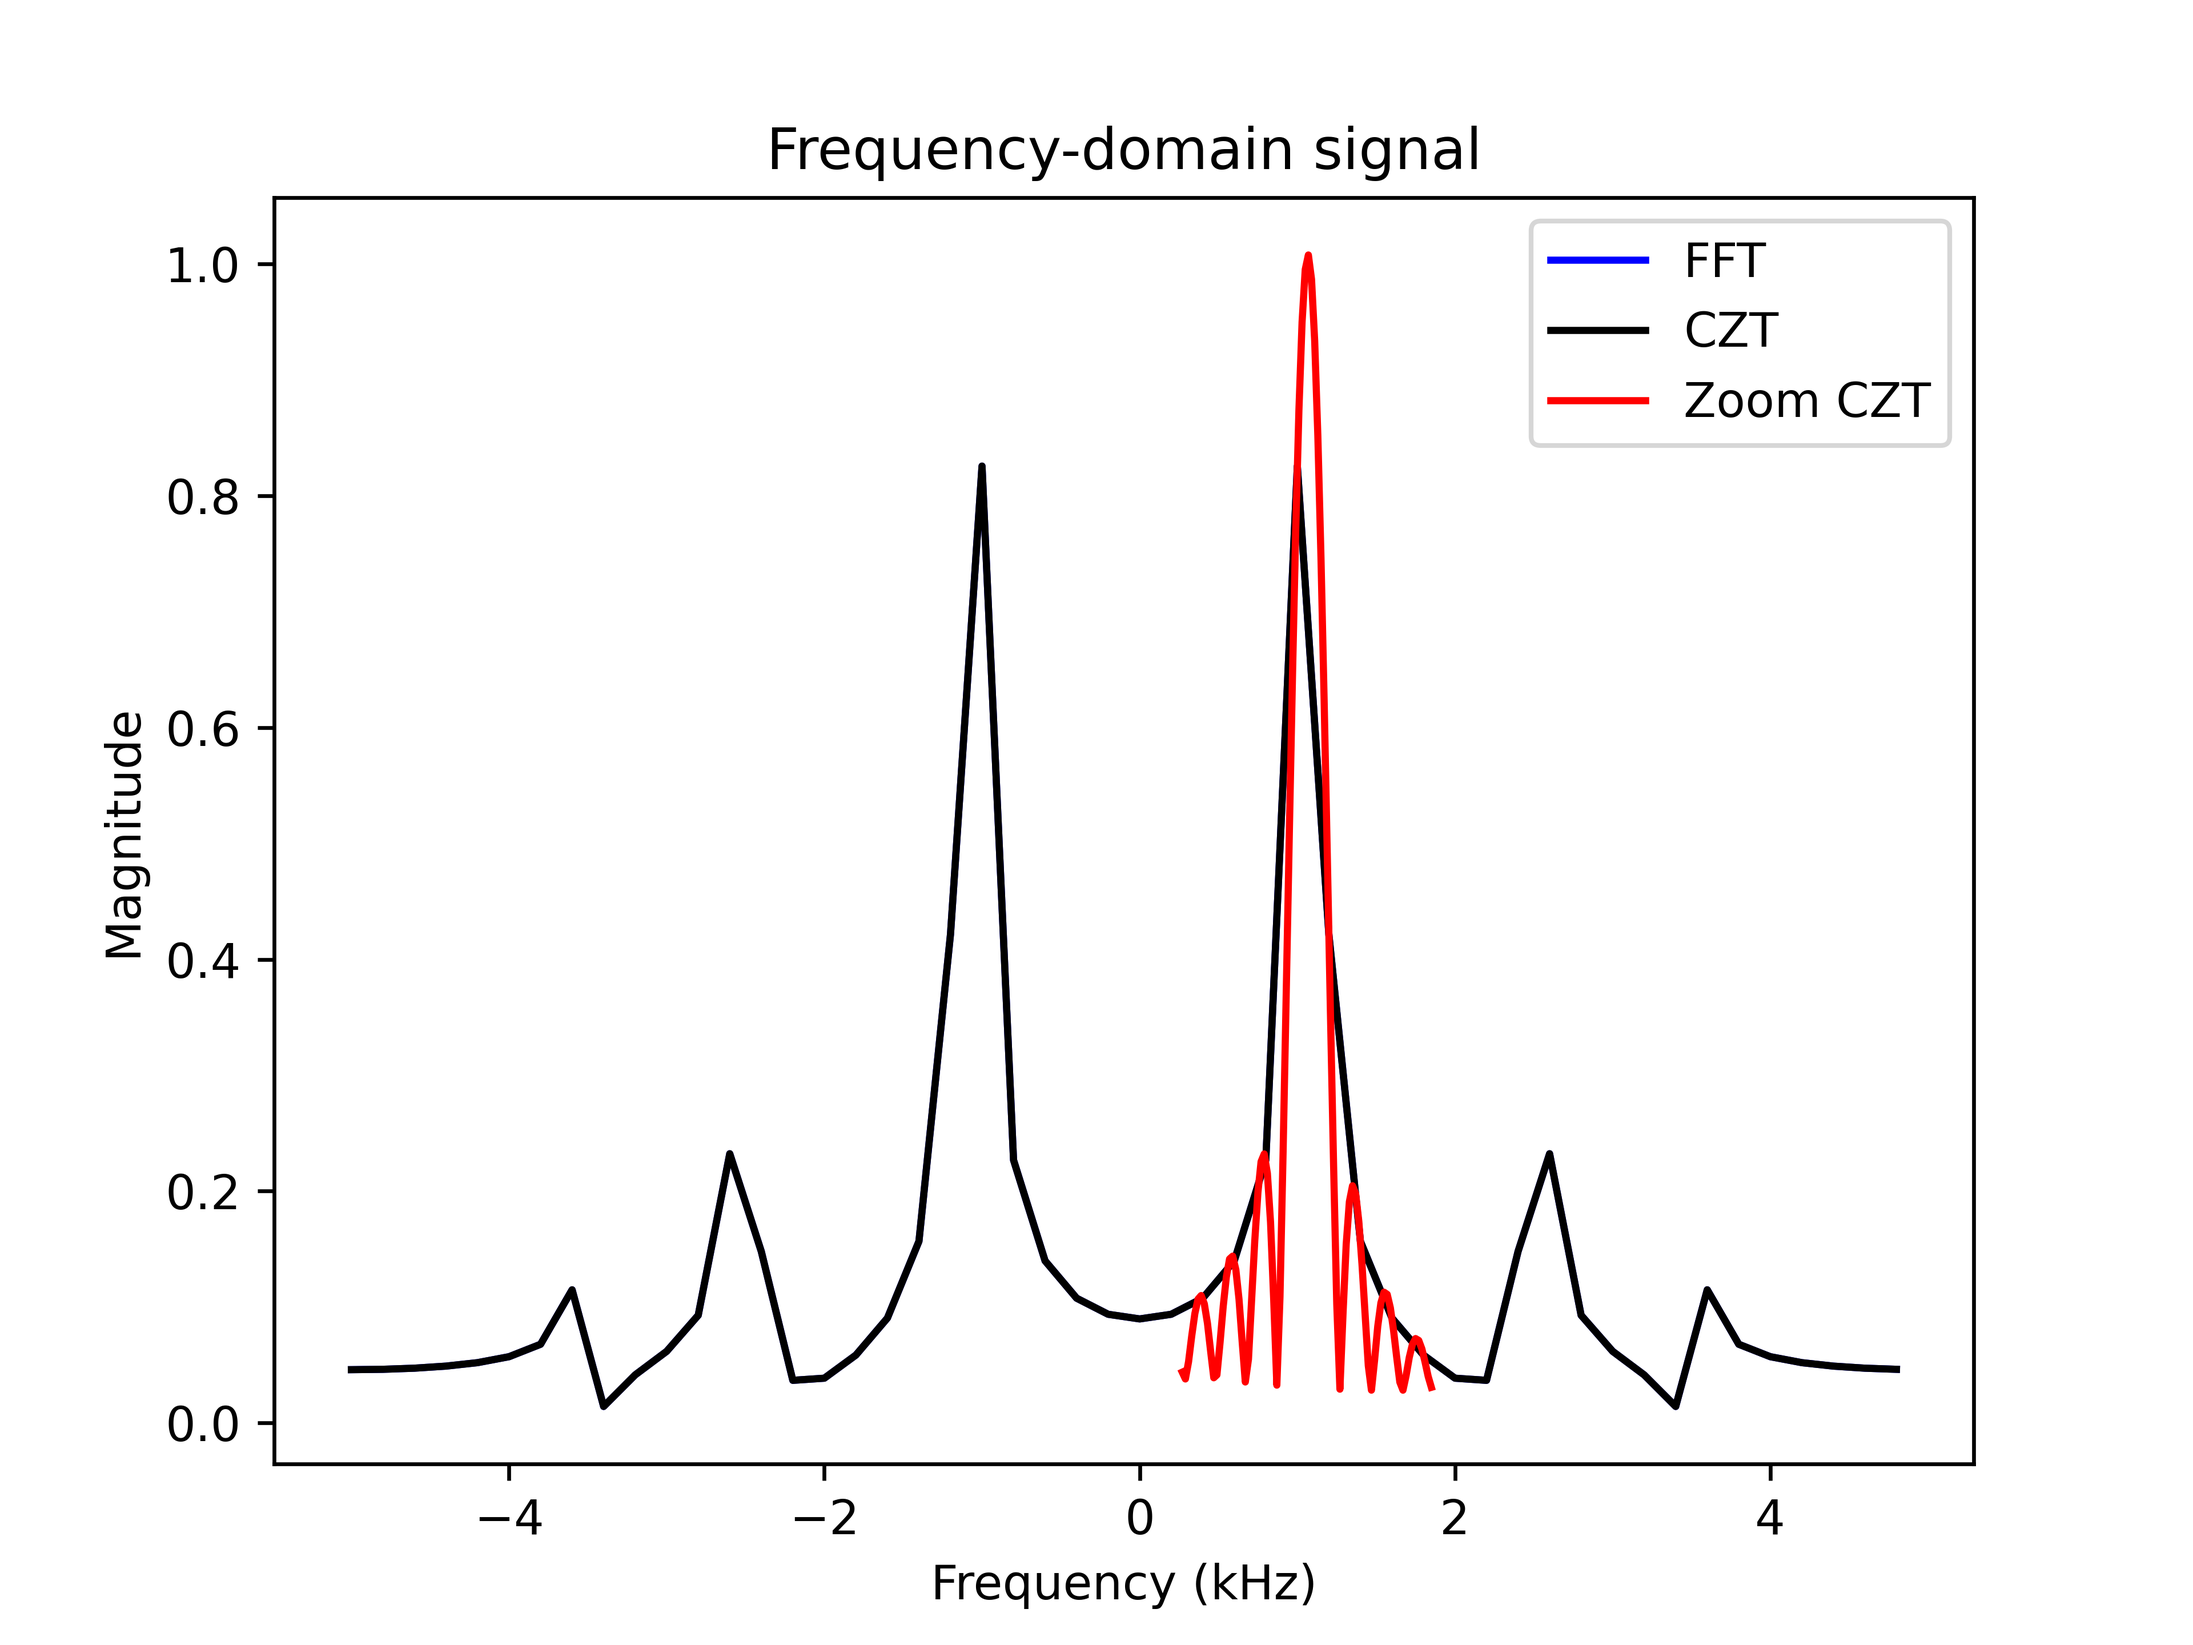
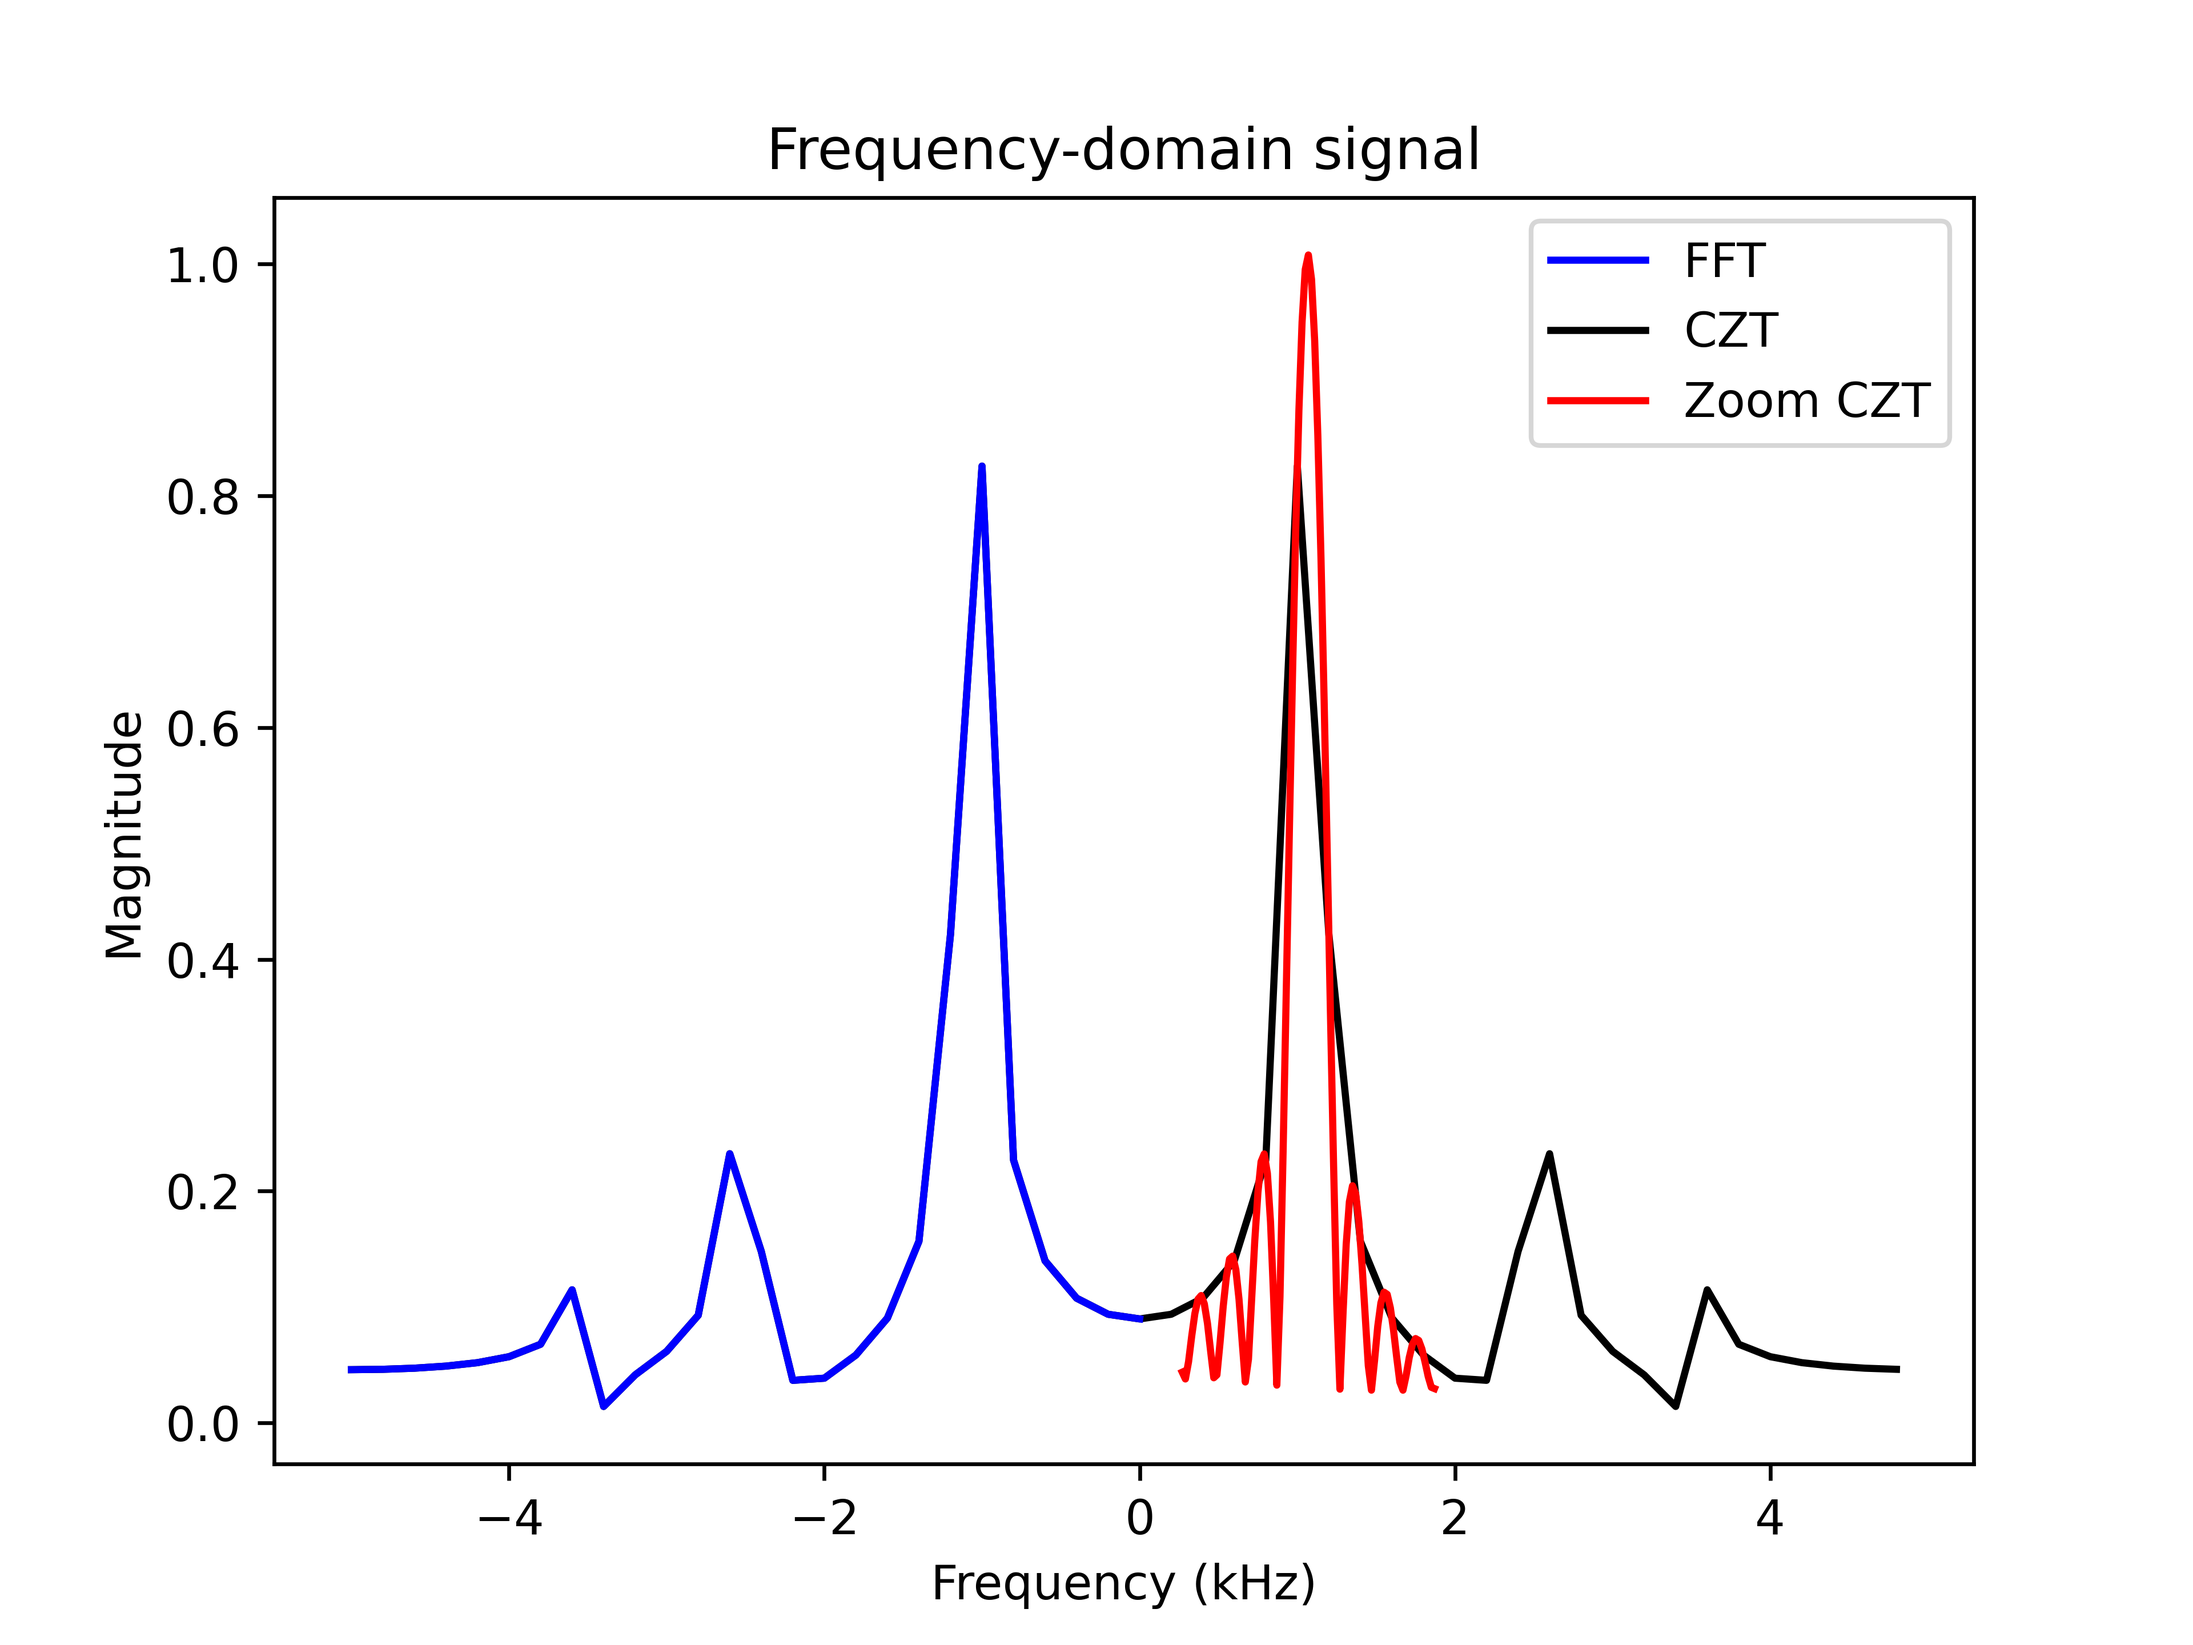
update fft_test

diff --git a/gen_fft_with_window.py b/gen_fft_with_window.py
@@ -1,0 +1,76 @@
+import math
+import time
+
+import matplotlib.pyplot as plt
+import numpy as np
+from matplotlib.pylab import mpl
+from matplotlib.ticker import FormatStrFormatter, MultipleLocator
+from scipy import signal as wd
+from scipy.fftpack import fft, ifft
+
+import fftwin
+import adcmodel
+
+Window = 'blackmanharris'
+
+
+# Sample Info
+N = 1024
+fs = 193986.56
+FS = 2.5
+FS_Vrms = FS / 2 / math.sqrt(2)
+Wave = 'sine'
+Wave_offset = 0
+#Wave_freq = 1001.22
+#Wave_freq = 1000.105
+Wave_freq = 10000.11
+
+adcout = adcmodel.adcmodel(N=N, fs=fs, FS=FS,
+                           HDx=[-20, -30, -40],
+                           Wave=Wave, Wave_freq=Wave_freq, Wave_offset=Wave_offset, Wave_Vrms=0.776,
+                           adc_bits=None, DR=30)
+
+
+N = len(adcout)
+half_N = int(N / 2) + 1
+
+fft_freq = np.linspace(0, fs / 2, half_N)
+
+# FFT
+signal_fft = fft(adcout)
+signal_fft = signal_fft[range(half_N)]
+fft_mod = np.abs(signal_fft)
+fft_phase = np.angle(signal_fft)
+
+# FFT Nomalized : DC & Vamp
+fft_mod[0] = fft_mod[0] / N
+fft_mod[range(1, half_N)] = fft_mod[range(1, half_N)] * 2 / N
+
+# FFT with window
+# Window
+# winN = wd.blackmanharris(N)
+if fftwin.has_window(Window):
+    winN = fftwin.get_window(Window, N)
+
+signal_win = winN * adcout
+
+signal_fft_win = fft(signal_win)
+signal_fft_win = signal_fft_win[range(half_N)]
+fft_mod_win = np.abs(signal_fft_win)
+fft_phase_win = np.angle(signal_fft_win)
+
+# FFT Nomalized : DC & Vamp
+fft_mod_win[0] = fft_mod_win[0] / N
+fft_mod_win[range(1, half_N)] = fft_mod_win[range(1, half_N)] * 2 / N
+
+plt.figure()
+plt.plot(fft_freq / 1e3, fft_mod_win, 'black',
+         linewidth=1.5, alpha=0.9, label='FFT with Window')
+plt.plot(fft_freq / 1e3, fft_mod, 'red', linewidth=1.5,
+         alpha=0.9, label='FFT without Window')
+plt.xlabel("Frequency (kHz)")
+plt.ylabel("Magnitude")
+plt.grid(True, which='both')
+plt.legend()
+plt.title("Frequency-domain signal")
+plt.savefig("./image/sig_with_win.png", dpi=600)

diff --git a/gen_fft_test.py b/gen_fft_test.py
@@ -1,0 +1,57 @@
+import math
+import time
+
+import matplotlib.pyplot as plt
+import numpy as np
+from matplotlib.pylab import mpl
+from matplotlib.ticker import FormatStrFormatter, MultipleLocator
+from scipy import signal as wd
+from scipy.fftpack import fft, ifft
+
+
+fs = 10000
+gen_freq = [0.107, 0.2505, 0.3503]
+N = 256
+
+# Time data
+# T=1.0 2.0 3.0
+t1 = np.arange(0, N, 1)
+sig = np.array((1.0 * np.sin(2 * np.pi * gen_freq[0] * t1) +
+                0.3 * np.sin(2 * np.pi * gen_freq[1] * t1) +
+                0.1 * np.sin(2 * np.pi * gen_freq[2] * t1)))
+
+
+N = len(sig)
+half_N = int(N / 2) + 1
+
+# FFT
+signal_fft = fft(sig)
+signal_fft = signal_fft[range(half_N)]
+
+fft_freq = np.linspace(0, fs / 2, half_N)
+
+fft_mod = np.abs(signal_fft)
+fft_phase = np.angle(signal_fft)
+
+# FFT Nomalized : DC & Vamp
+fft_mod[0] = fft_mod[0] / N
+fft_mod[range(1, half_N)] = fft_mod[range(1, half_N)] * 2 / N
+
+plt.figure()
+plt.plot(t1/fs * 1e3, sig, 'b', label='Time')
+plt.xlabel("Time (ms)")
+plt.ylabel("Magnitude")
+plt.grid(True, which='both')
+plt.legend()
+plt.title("Time-domain signal")
+plt.savefig("./image/sig_time.png", dpi=600)
+
+plt.figure()
+plt.plot(fft_freq / 1e3, fft_mod, 'b', label='FFT')
+plt.xlabel("Frequency (kHz)")
+plt.ylabel("Magnitude")
+plt.grid(True, which='both')
+plt.legend()
+plt.title("Frequency-domain signal")
+plt.savefig("./image/sig_freq.png", dpi=600)
+

diff --git a/fftplot.py b/fftplot.py
@@ -113,8 +113,10 @@ def fftplot(signal, fs,
     fft_mod_dbfs = np.zeros(half_N)
     assert FS > 0
     # Nomalized : FS
+    # TODO CHECK HERE
     fft_mod_dbfs[0] = fft_mod[0] / FS
     fft_mod_dbfs[range(1, half_N)] = fft_mod[range(1, half_N)] * 2 / FS
+    #fft_mod_dbfs = fft_mod / FS
     # Nomalized : dB
     fft_mod_dbfs = util.vratio2db_np(fft_mod_dbfs)
 
@@ -347,6 +349,8 @@ if __name__ == '__main__':
     fs = 193986.56
     FS = 2.5
     FS_Vrms = FS / 2 / math.sqrt(2)
+    #Wave_Vrms = 0.776
+    Wave_Vrms = FS_Vrms
     Wave = 'sine'
     Wave_offset = 0
     #Wave_freq = 1001.22
@@ -355,7 +359,7 @@ if __name__ == '__main__':
 
     adcout = adcmodel.adcmodel(N=N, fs=fs, FS=FS,
                                HDx=[-95, -90, -100],
-                               Wave=Wave, Wave_freq=Wave_freq, Wave_offset=Wave_offset, Wave_Vrms=0.776,
+                               Wave=Wave, Wave_freq=Wave_freq, Wave_offset=Wave_offset, Wave_Vrms=Wave_Vrms,
                                adc_bits=None, DR=100)
 
     # Time

diff --git a/czt_zoom_test.py b/czt_zoom_test.py
@@ -33,8 +33,8 @@ if __name__ == '__main__':
     time_end = time.time()
     print('points', len(freq_zoomed), ', totally cost', time_end - time_start)
 
-    print('Gen Data Calc:', gen_freq[0]*fs)
-    print('Raw Data Calc:', freq[np.argmax(np.abs(sig_f))]*fs)
+    print('Gen Data Calc:', gen_freq[0] * fs)
+    print('Raw Data Calc:', freq[np.argmax(np.abs(sig_f))] * fs)
     print('Zoom Data Calc:', freq_zoomed[np.argmax(np.abs(czt_zoomed))])
 
     fft_mod = np.abs(np.fft.fftshift(np.fft.fft(sig)))
@@ -43,8 +43,7 @@ if __name__ == '__main__':
     czt_zoomed = czt_zoomed / N * 2
 
     plt.figure()
-    plt.plot(freq * fs / 1e3,
-             fft_mod, 'b', label='FFT')
+    plt.plot(freq[0:int(len(freq)/2)+1] * fs / 1e3, fft_mod[0:int(len(freq)/2)+1], 'b', label='FFT',zorder=100)
     plt.plot(freq * fs / 1e3, np.abs(sig_f), 'k', label='CZT')
     plt.plot(freq_zoomed / 1e3, np.abs(czt_zoomed), 'r', label='Zoom CZT')
     plt.xlabel("Frequency (kHz)")

diff --git a/adc_analysis.py b/adc_analysis.py
@@ -6,13 +6,22 @@ import fftplot as f
 if __name__ == '__main__':
 
     fs = 200000
-    FS = 10
+
+    FS = 20 # +/-5V
+
     offset = 0
     Zoom_fin = 1000
 
-    adc_sample = dec.adc_decode('./TestData_88d69.txt', base='hex',
-                                encode='offset', adc_bits=16, FS=10, offset=0)
+    #filename = './TestData_88d69.txt'
 
+    path = 'D:/Files/202105毕业论文/Export/动态/'
+    filename = 'File_AdDataConvert_4Lt4P_89d52'
+    ext='.txt'
+
+    adc_sample = dec.adc_decode(path+filename+ext, base='hex',
+                                encode='offset', adc_bits=16, FS=FS, offset=offset)
+
+    print(len(adc_sample),min(adc_sample),max(adc_sample))
     f.fftplot(signal=adc_sample, fs=fs, Nomalized='dBFS', FS=FS, Window='HFT248D',
               Zoom='Part', Zoom_fin=Zoom_fin,
               HDx_max=5,

diff --git a/win.m b/win.m
@@ -1,0 +1,17 @@
+weight = [1, 1.985844164102, 1.791176438506, 1.282075284005,0.667777530266, 0.240160796576, 0.056656381764, 0.008134974479,0.000624544650, 0.000019808998, 0.000000132974]
+
+N = 256;
+ind = (0:N-1)'*2*pi/(N-1);
+w = weight(1)-  weight(2)*cos(ind) +  weight(3)*cos(2*ind)-  weight(4)*cos(3*ind) +  weight(5)*cos(4*ind)-  weight(6)*cos(5*ind) +  weight(7)*cos(6*ind)-  weight(8)*cos(7*ind) +  weight(9)*cos(8*ind)-  weight(10)*cos(9*ind) +  weight(11)*cos(10*ind)
+
+wvtool(w)
+
+
+weight = [1, 1.942604, 1.340318, 0.440811, 0.043097]
+
+N = 256;
+ind = (0:N-1)'*2*pi/(N-1);
+w = weight(1)-  weight(2)*cos(ind) +  weight(3)*cos(2*ind)-  weight(4)*cos(3*ind) +  weight(5)*cos(4*ind)
+
+wvtool(w)
+

diff --git a/win.py b/win.py
@@ -6,15 +6,15 @@ import fftwin
 
 #window = signal.windows.blackmanharris(1048576)
 #window = signal.windows.kaiser(51, beta=100)
-#window = fftwin.get_window('HFT248D', 1048576)
-window = fftwin.get_window('blackmanharris', 1048576)
+window = fftwin.get_window('HFT248D', 256)
+#window = fftwin.get_window('blackmanharris', 1048576)
 plt.plot(window)
 plt.title(r"window")
 plt.ylabel("Amplitude")
 plt.xlabel("Sample")
 
 plt.figure()
-A = fft(window, 1048576) / (len(window)/2.0)
+A = fft(window, 256) / (len(window)/2.0)
 freq = np.linspace(-0.5, 0.5, len(A))
 response = 20 * np.log10(np.abs(fftshift(A / abs(A).max())))
 plt.plot(freq, response, linewidth = 1, marker = '.', markersize = 3)
